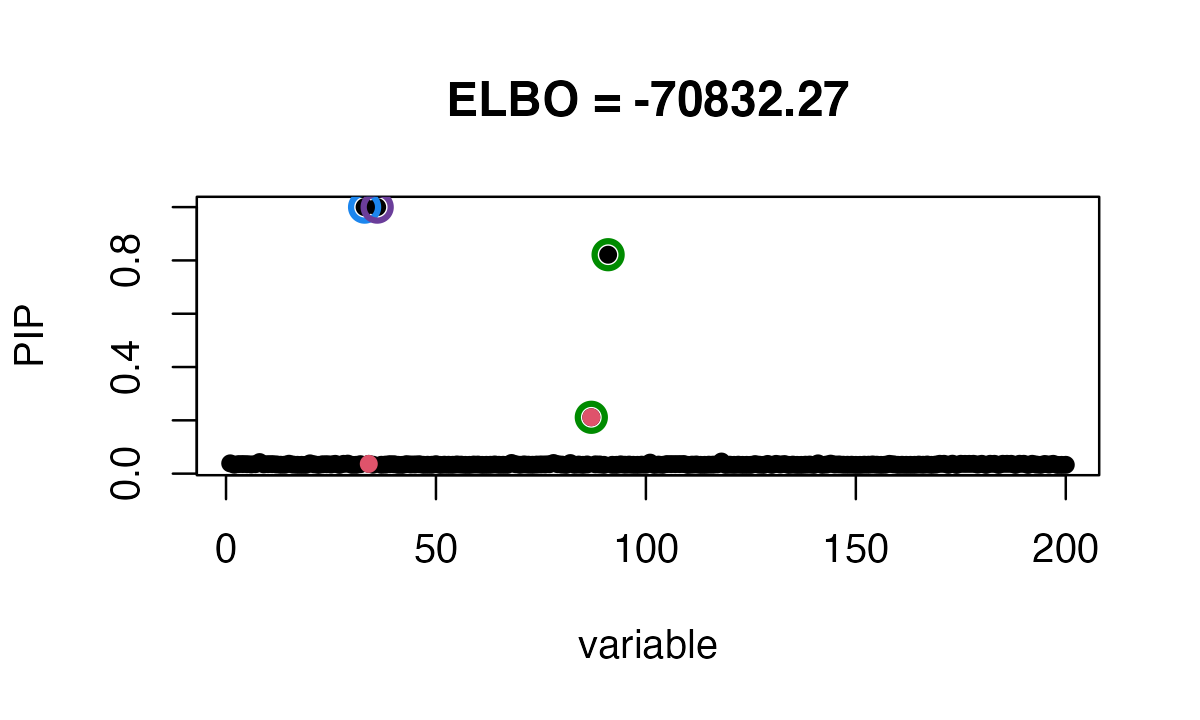
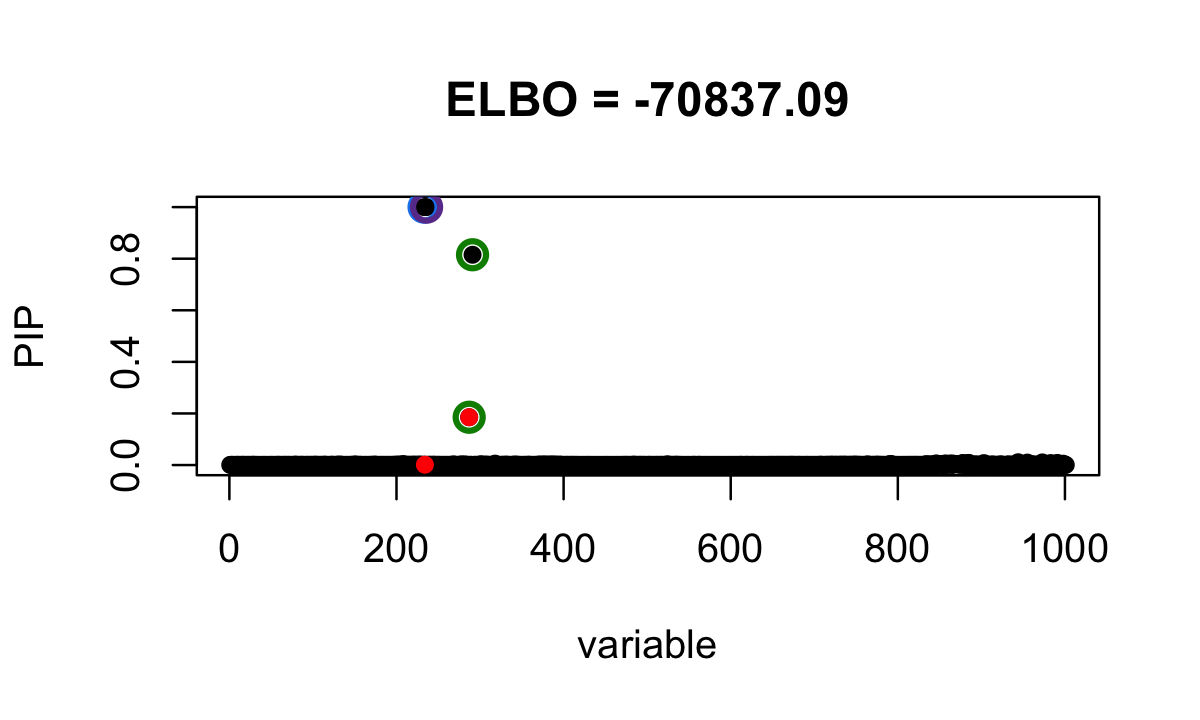
Re-ran susie_refine vignette using data set with more SNPs.

diff --git a/docs/articles/susie_refine.html b/docs/articles/susie_refine.html
@@ -31,7 +31,7 @@
       </button>
       <span class="navbar-brand">
         <a class="navbar-link" href="../index.html">susieR</a>
-        <span class="version label label-default" data-toggle="tooltip" data-placement="bottom" title="Released version">0.11.48</span>
+        <span class="version label label-default" data-toggle="tooltip" data-placement="bottom" title="Released version">0.11.50</span>
       </span>
     </div>
 
@@ -61,13 +61,13 @@
 
       
 
-      </header><script src="susie_refine_files/header-attrs-2.9/header-attrs.js"></script><div class="row">
+      </header><div class="row">
   <div class="col-md-9 contents">
     <div class="page-header toc-ignore">
       <h1 data-toc-skip>Refine SuSiE model</h1>
                         <h4 class="author">Yuxin Zou</h4>
             
-            <h4 class="date">2021-08-12</h4>
+            <h4 class="date">2021-08-27</h4>
       
       <small class="dont-index">Source: <a href="https://github.com/stephenslab/susieR/blob/master/vignettes/susie_refine.Rmd"><code>vignettes/susie_refine.Rmd</code></a></small>
       <div class="hidden name"><code>susie_refine.Rmd</code></div>
@@ -78,11 +78,15 @@
     
 <p>In this vignette, we demonstrate a procedure that helps SuSiE get out of local optimum.</p>
 <p>We simulate phenotype using UK Biobank genotypes from 50,000 individuals. There are 200 SNPs. It is simulated to have exactly 2 non-zero effects at 34, 87.</p>
-<div class="sourceCode" id="cb1"><pre class="downlit sourceCode r">
-<code class="sourceCode R"><span class="kw"><a href="https://rdrr.io/r/base/library.html">library</a></span><span class="op">(</span><span class="va"><a href="https://github.com/stephenslab/susieR">susieR</a></span><span class="op">)</span>
-<span class="fu"><a href="https://rdrr.io/r/utils/data.html">data</a></span><span class="op">(</span><span class="st">'FinemappingConvergence'</span><span class="op">)</span>
-<span class="va">b</span> <span class="op">=</span> <span class="va">FinemappingConvergence</span><span class="op">$</span><span class="va">true_coef</span>
-<span class="fu"><a href="../reference/susie_plot.html">susie_plot</a></span><span class="op">(</span><span class="va">FinemappingConvergence</span><span class="op">$</span><span class="va">z</span>, y <span class="op">=</span> <span class="st">"z"</span>, b<span class="op">=</span><span class="va">b</span><span class="op">)</span></code></pre></div>
+<div class="sourceCode" id="cb1"><html><body><pre class="r"><span class="fu"><a href="https://rdrr.io/r/base/library.html">library</a></span>(<span class="no">susieR</span>)
+<span class="fu"><a href="https://rdrr.io/r/base/library.html">library</a></span>(<span class="no">curl</span>)
+<span class="no">data_file</span> <span class="kw">&lt;-</span> <span class="fu"><a href="https://rdrr.io/r/base/tempfile.html">tempfile</a></span>(<span class="kw">fileext</span> <span class="kw">=</span> <span class="st">".RData"</span>)
+<span class="no">data_url</span> <span class="kw">&lt;-</span> <span class="fu"><a href="https://rdrr.io/r/base/paste.html">paste0</a></span>(<span class="st">"https://raw.githubusercontent.com/stephenslab/susieR/"</span>,
+                   <span class="st">"master/inst/datafiles/FinemappingConvergence1k.RData"</span>)
+<span class="fu"><a href="https://jeroen.cran.dev/curl/reference/curl_download.html">curl_download</a></span>(<span class="no">data_url</span>,<span class="no">data_file</span>)
+<span class="fu"><a href="https://rdrr.io/r/base/load.html">load</a></span>(<span class="no">data_file</span>)
+<span class="no">b</span> <span class="kw">&lt;-</span> <span class="no">FinemappingConvergence</span>$<span class="no">true_coef</span>
+<span class="fu"><a href="../reference/susie_plots.html">susie_plot</a></span>(<span class="no">FinemappingConvergence</span>$<span class="no">z</span>, <span class="kw">y</span> <span class="kw">=</span> <span class="st">"z"</span>, <span class="kw">b</span><span class="kw">=</span><span class="no">b</span>)</pre></body></html></div>
 <div class="figure" style="text-align: center">
 <img src="susie_refine_files/figure-html/unnamed-chunk-1-1.png" alt="&amp;nbsp;" width="600"><p class="caption">
  
@@ -90,10 +94,9 @@
 </div>
 <p>The strongest marginal association is a non-effect SNP.</p>
 <p>Since the sample size is large, we use sufficient statistics (<span class="math inline">\(X^\intercal X, X^\intercal y, y^\intercal y\)</span> and sample size <span class="math inline">\(n\)</span>) to fit susie model. It identifies 2 Credible Sets, one of them is false positive. This is because <code>susieR</code> get stuck around a local minimum.</p>
-<div class="sourceCode" id="cb2"><pre class="downlit sourceCode r">
-<code class="sourceCode R"><span class="va">fitted</span> <span class="op">&lt;-</span> <span class="fu"><a href="https://rdrr.io/r/base/with.html">with</a></span><span class="op">(</span><span class="va">FinemappingConvergence</span>,
-               <span class="fu"><a href="../reference/susie.html">susie_suff_stat</a></span><span class="op">(</span>XtX <span class="op">=</span> <span class="va">XtX</span>, Xty <span class="op">=</span> <span class="va">Xty</span>, yty <span class="op">=</span> <span class="va">yty</span>, n <span class="op">=</span> <span class="va">n</span><span class="op">)</span><span class="op">)</span>
-<span class="fu"><a href="../reference/susie_plot.html">susie_plot</a></span><span class="op">(</span><span class="va">fitted</span>, y<span class="op">=</span><span class="st">"PIP"</span>, b<span class="op">=</span><span class="va">b</span>, main<span class="op">=</span><span class="fu"><a href="https://rdrr.io/r/base/paste.html">paste0</a></span><span class="op">(</span><span class="st">"ELBO = "</span>, <span class="fu"><a href="https://rdrr.io/r/base/Round.html">round</a></span><span class="op">(</span><span class="fu"><a href="../reference/susie_get_objective.html">susie_get_objective</a></span><span class="op">(</span><span class="va">fitted</span><span class="op">)</span>,<span class="fl">2</span><span class="op">)</span><span class="op">)</span><span class="op">)</span></code></pre></div>
+<div class="sourceCode" id="cb2"><html><body><pre class="r"><span class="no">fitted</span> <span class="kw">&lt;-</span> <span class="fu"><a href="https://rdrr.io/r/base/with.html">with</a></span>(<span class="no">FinemappingConvergence</span>,
+               <span class="fu"><a href="../reference/susie.html">susie_suff_stat</a></span>(<span class="kw">XtX</span> <span class="kw">=</span> <span class="no">XtX</span>, <span class="kw">Xty</span> <span class="kw">=</span> <span class="no">Xty</span>, <span class="kw">yty</span> <span class="kw">=</span> <span class="no">yty</span>, <span class="kw">n</span> <span class="kw">=</span> <span class="no">n</span>))
+<span class="fu"><a href="../reference/susie_plots.html">susie_plot</a></span>(<span class="no">fitted</span>, <span class="kw">y</span><span class="kw">=</span><span class="st">"PIP"</span>, <span class="kw">b</span><span class="kw">=</span><span class="no">b</span>, <span class="kw">main</span><span class="kw">=</span><span class="fu"><a href="https://rdrr.io/r/base/paste.html">paste0</a></span>(<span class="st">"ELBO = "</span>, <span class="fu"><a href="https://rdrr.io/r/base/Round.html">round</a></span>(<span class="fu"><a href="../reference/susie_get_methods.html">susie_get_objective</a></span>(<span class="no">fitted</span>),<span class="fl">2</span>)))</pre></body></html></div>
 <div class="figure" style="text-align: center">
 <img src="susie_refine_files/figure-html/unnamed-chunk-2-1.png" alt="&amp;nbsp;" width="600"><p class="caption">
  
@@ -107,11 +110,10 @@
 <li><p>if <span class="math inline">\(\max_k \text{elbo}(s_k) &gt; \text{elbo}(s)\)</span>, set <span class="math inline">\(s = s_{kmax}\)</span> where <span class="math inline">\(kmax = \arg_k \max \text{elbo}(s_k)\)</span> and go to step 2; if no, break.</p></li>
 </ol>
 <p>We fit susie model with above procedure by setting <code>refine = TRUE</code>.</p>
-<div class="sourceCode" id="cb3"><pre class="downlit sourceCode r">
-<code class="sourceCode R"><span class="va">fitted_refine</span> <span class="op">&lt;-</span> <span class="fu"><a href="https://rdrr.io/r/base/with.html">with</a></span><span class="op">(</span><span class="va">FinemappingConvergence</span>,
-                      <span class="fu"><a href="../reference/susie.html">susie_suff_stat</a></span><span class="op">(</span>XtX <span class="op">=</span> <span class="va">XtX</span>, Xty <span class="op">=</span> <span class="va">Xty</span>, yty <span class="op">=</span> <span class="va">yty</span>,
-                                      n <span class="op">=</span> <span class="va">n</span>, refine<span class="op">=</span><span class="cn">TRUE</span><span class="op">)</span><span class="op">)</span>
-<span class="fu"><a href="../reference/susie_plot.html">susie_plot</a></span><span class="op">(</span><span class="va">fitted_refine</span>, y<span class="op">=</span><span class="st">"PIP"</span>, b<span class="op">=</span><span class="va">b</span>, main<span class="op">=</span><span class="fu"><a href="https://rdrr.io/r/base/paste.html">paste0</a></span><span class="op">(</span><span class="st">"ELBO = "</span>, <span class="fu"><a href="https://rdrr.io/r/base/Round.html">round</a></span><span class="op">(</span><span class="fu"><a href="../reference/susie_get_objective.html">susie_get_objective</a></span><span class="op">(</span><span class="va">fitted_refine</span><span class="op">)</span>,<span class="fl">2</span><span class="op">)</span><span class="op">)</span><span class="op">)</span></code></pre></div>
+<div class="sourceCode" id="cb3"><html><body><pre class="r"><span class="no">fitted_refine</span> <span class="kw">&lt;-</span> <span class="fu"><a href="https://rdrr.io/r/base/with.html">with</a></span>(<span class="no">FinemappingConvergence</span>,
+                      <span class="fu"><a href="../reference/susie.html">susie_suff_stat</a></span>(<span class="kw">XtX</span> <span class="kw">=</span> <span class="no">XtX</span>, <span class="kw">Xty</span> <span class="kw">=</span> <span class="no">Xty</span>, <span class="kw">yty</span> <span class="kw">=</span> <span class="no">yty</span>,
+                                      <span class="kw">n</span> <span class="kw">=</span> <span class="no">n</span>, <span class="kw">refine</span><span class="kw">=</span><span class="fl">TRUE</span>))
+<span class="fu"><a href="../reference/susie_plots.html">susie_plot</a></span>(<span class="no">fitted_refine</span>, <span class="kw">y</span><span class="kw">=</span><span class="st">"PIP"</span>, <span class="kw">b</span><span class="kw">=</span><span class="no">b</span>, <span class="kw">main</span><span class="kw">=</span><span class="fu"><a href="https://rdrr.io/r/base/paste.html">paste0</a></span>(<span class="st">"ELBO = "</span>, <span class="fu"><a href="https://rdrr.io/r/base/Round.html">round</a></span>(<span class="fu"><a href="../reference/susie_get_methods.html">susie_get_objective</a></span>(<span class="no">fitted_refine</span>),<span class="fl">2</span>)))</pre></body></html></div>
 <div class="figure" style="text-align: center">
 <img src="susie_refine_files/figure-html/unnamed-chunk-3-1.png" alt="&amp;nbsp;" width="600"><p class="caption">
  
@@ -122,15 +124,14 @@
 <h2 class="hasAnchor">
 <a href="#session-information" class="anchor"></a>Session information</h2>
 <p>Here are some details about the computing environment, including the versions of R, and the R packages, used to generate these results.</p>
-<div class="sourceCode" id="cb4"><pre class="downlit sourceCode r">
-<code class="sourceCode R"><span class="fu"><a href="https://rdrr.io/r/utils/sessionInfo.html">sessionInfo</a></span><span class="op">(</span><span class="op">)</span>
-<span class="co"># R version 4.1.0 (2021-05-18)</span>
-<span class="co"># Platform: x86_64-apple-darwin17.0 (64-bit)</span>
-<span class="co"># Running under: macOS Big Sur 10.16</span>
+<div class="sourceCode" id="cb4"><html><body><pre class="r"><span class="fu"><a href="https://rdrr.io/r/utils/sessionInfo.html">sessionInfo</a></span>()
+<span class="co"># R version 3.6.2 (2019-12-12)</span>
+<span class="co"># Platform: x86_64-apple-darwin15.6.0 (64-bit)</span>
+<span class="co"># Running under: macOS Catalina 10.15.7</span>
 <span class="co"># </span>
 <span class="co"># Matrix products: default</span>
-<span class="co"># BLAS:   /Library/Frameworks/R.framework/Versions/4.1/Resources/lib/libRblas.dylib</span>
-<span class="co"># LAPACK: /Library/Frameworks/R.framework/Versions/4.1/Resources/lib/libRlapack.dylib</span>
+<span class="co"># BLAS:   /Library/Frameworks/R.framework/Versions/3.6/Resources/lib/libRblas.0.dylib</span>
+<span class="co"># LAPACK: /Library/Frameworks/R.framework/Versions/3.6/Resources/lib/libRlapack.dylib</span>
 <span class="co"># </span>
 <span class="co"># locale:</span>
 <span class="co"># [1] en_US.UTF-8/en_US.UTF-8/en_US.UTF-8/C/en_US.UTF-8/en_US.UTF-8</span>
@@ -139,22 +140,22 @@
 <span class="co"># [1] stats     graphics  grDevices utils     datasets  methods   base     </span>
 <span class="co"># </span>
 <span class="co"># other attached packages:</span>
-<span class="co"># [1] susieR_0.11.48</span>
+<span class="co"># [1] curl_4.3       susieR_0.11.33</span>
 <span class="co"># </span>
 <span class="co"># loaded via a namespace (and not attached):</span>
-<span class="co">#  [1] Rcpp_1.0.7        highr_0.9         plyr_1.8.6        compiler_4.1.0   </span>
-<span class="co">#  [5] pillar_1.6.2      tools_4.1.0       digest_0.6.27     evaluate_0.14    </span>
-<span class="co">#  [9] memoise_2.0.0     lifecycle_1.0.0   tibble_3.1.3      gtable_0.3.0     </span>
-<span class="co"># [13] lattice_0.20-44   pkgconfig_2.0.3   rlang_0.4.11      Matrix_1.3-3     </span>
-<span class="co"># [17] yaml_2.2.1        pkgdown_1.6.1     xfun_0.24         fastmap_1.1.0    </span>
-<span class="co"># [21] dplyr_1.0.7       stringr_1.4.0     knitr_1.33        generics_0.1.0   </span>
-<span class="co"># [25] desc_1.3.0        fs_1.5.0          vctrs_0.3.8       systemfonts_1.0.2</span>
-<span class="co"># [29] tidyselect_1.1.1  rprojroot_2.0.2   grid_4.1.0        reshape_0.8.8    </span>
-<span class="co"># [33] glue_1.4.2        R6_2.5.0          textshaping_0.3.5 fansi_0.5.0      </span>
-<span class="co"># [37] rmarkdown_2.9     mixsqp_0.3-46     irlba_2.3.3       purrr_0.3.4      </span>
-<span class="co"># [41] ggplot2_3.3.5     magrittr_2.0.1    scales_1.1.1      htmltools_0.5.1.1</span>
-<span class="co"># [45] ellipsis_0.3.2    colorspace_2.0-2  ragg_1.1.3        utf8_1.2.2       </span>
-<span class="co"># [49] stringi_1.7.3     munsell_0.5.0     cachem_1.0.5      crayon_1.4.1</span></code></pre></div>
+<span class="co">#  [1] Rcpp_1.0.7       highr_0.8        plyr_1.8.5       compiler_3.6.2  </span>
+<span class="co">#  [5] pillar_1.6.2     tools_3.6.2      digest_0.6.23    evaluate_0.14   </span>
+<span class="co">#  [9] memoise_1.1.0    lifecycle_1.0.0  tibble_3.1.3     gtable_0.3.0    </span>
+<span class="co"># [13] lattice_0.20-38  pkgconfig_2.0.3  rlang_0.4.11     Matrix_1.2-18   </span>
+<span class="co"># [17] DBI_1.1.0        yaml_2.2.0       pkgdown_1.5.1    xfun_0.11       </span>
+<span class="co"># [21] dplyr_1.0.7      stringr_1.4.0    knitr_1.26       generics_0.0.2  </span>
+<span class="co"># [25] desc_1.2.0       fs_1.3.1         vctrs_0.3.8      tidyselect_1.1.1</span>
+<span class="co"># [29] rprojroot_1.3-2  grid_3.6.2       reshape_0.8.8    glue_1.4.2      </span>
+<span class="co"># [33] R6_2.4.1         fansi_0.4.0      rmarkdown_2.3    mixsqp_0.3-46   </span>
+<span class="co"># [37] irlba_2.3.3      purrr_0.3.4      ggplot2_3.3.5    magrittr_2.0.1  </span>
+<span class="co"># [41] backports_1.1.5  scales_1.1.0     htmltools_0.4.0  ellipsis_0.3.2  </span>
+<span class="co"># [45] MASS_7.3-51.4    assertthat_0.2.1 colorspace_1.4-1 utf8_1.1.4      </span>
+<span class="co"># [49] stringi_1.4.3    munsell_0.5.0    crayon_1.4.1</span></pre></body></html></div>
 </div>
   </div>
 
@@ -173,7 +174,7 @@
 </div>
 
 <div class="pkgdown">
-  <p>Site built with <a href="https://pkgdown.r-lib.org/">pkgdown</a> 1.6.1.</p>
+  <p>Site built with <a href="https://pkgdown.r-lib.org/">pkgdown</a> 1.5.1.</p>
 </div>
 
       </footer>
